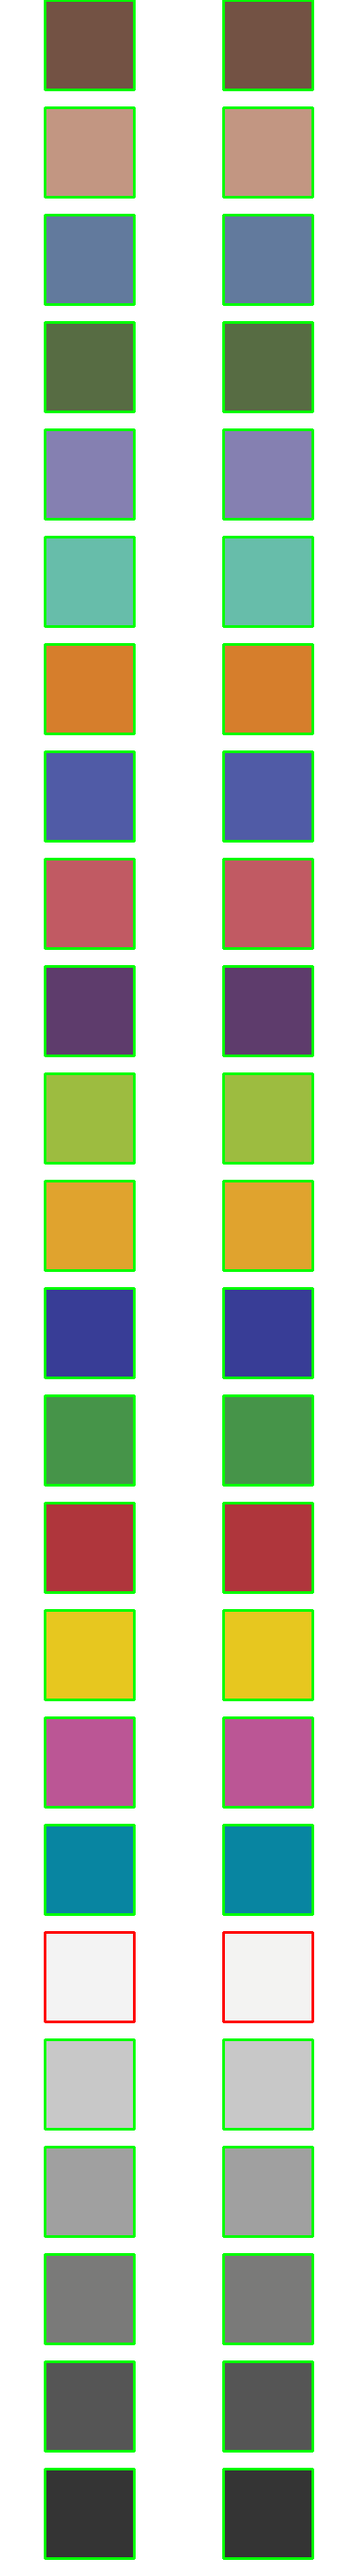
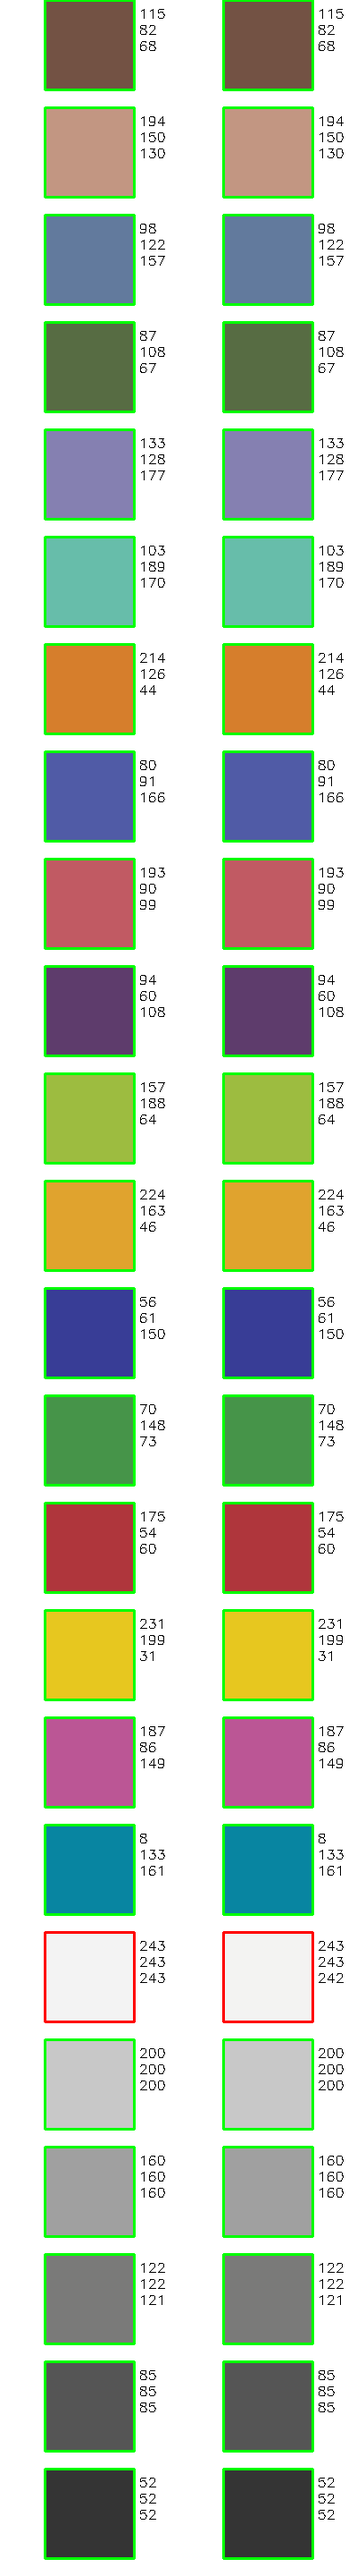
Added expected/actual RGB values to the resulting image.

diff --git a/main.py b/main.py
@@ -74,7 +74,6 @@ def validate_color_chart(image, chart_values):
     return validation_result
 
 
-
 def calculate_accuracy(expected_rgb, actual_rgb):
     """
     Calculates the accuracy between two RGB values.
@@ -84,6 +83,12 @@ def calculate_accuracy(expected_rgb, actual_rgb):
     accuracy = 100 - (np.mean(differences / max_differences) * 100)
     return accuracy
 
+
+def put_vertical_text(img, text, org, font, font_scale, color, thickness):
+    y = org[1]
+    for value in text:
+        cv2.putText(img, str(value), (org[0], y), font, font_scale, color, thickness)
+        y += int(cv2.getTextSize(str(value), font, font_scale, thickness)[0][1] * 1.5)
 
 def visualize_color_chart(image, chart_values, output_filename):
     # Create a blank canvas with a white background
@@ -108,6 +113,14 @@ def visualize_color_chart(image, chart_values, output_filename):
         border_color = (0, 255, 0) if accuracy >= 99.99 else (0, 0, 255)
         cv2.rectangle(canvas, (50, top), (150, bottom), border_color, 2)
         cv2.rectangle(canvas, (250, top), (350, bottom), border_color, 2)
+
+        # Add the expected and actual RGB values as vertical text
+        text_color = (0, 0, 0)
+        font = cv2.FONT_HERSHEY_SIMPLEX
+        font_scale = 0.5
+        font_thickness = 1
+        put_vertical_text(canvas, expected_rgb, (155, top + 20), font, font_scale, text_color, font_thickness)
+        put_vertical_text(canvas, actual_rgb, (355, top + 20), font, font_scale, text_color, font_thickness)
 
     # Save the visualization to a file
     cv2.imwrite(output_filename, canvas)
